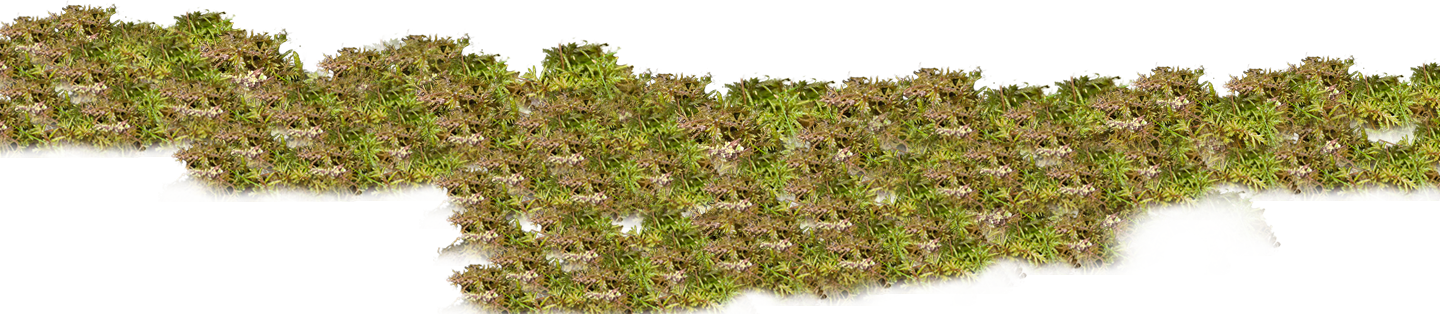
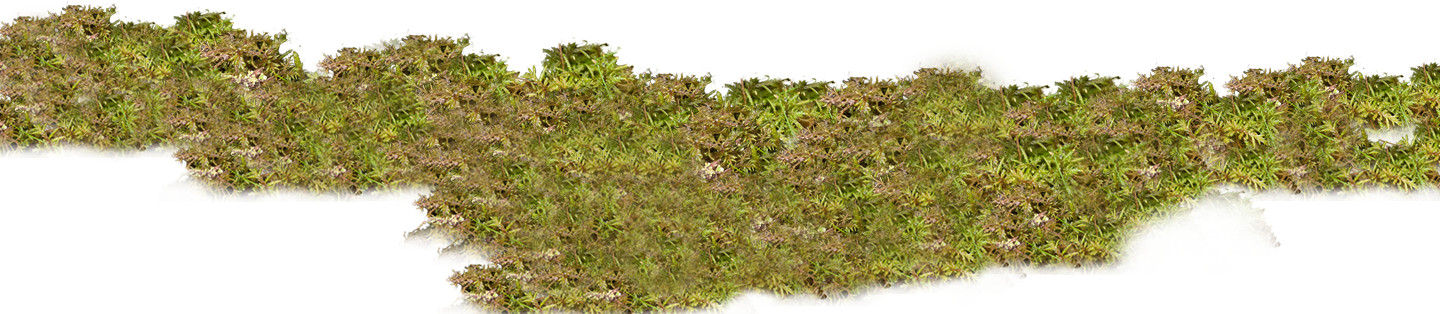
Update styles

Changed region(s): [[0.0, 0.0573, 0.8438, 0.9459], [0.875, 0.3439, 0.9375, 0.5732]]

diff --git a/src/assets/styles/App.scss b/src/assets/styles/App.scss
@@ -151,14 +151,17 @@ html {
   .layer_grass {
     width: 200%;
     left: -70%;
-    height: 20%;
+    height: 40%;
     margin: auto;
     right: 0;
-    bottom: 5%;
+    bottom: -13%;
+    .gatsby-image-wrapper {
+      height: 100%;
+    }
     @include medium {
-      left: -20%;
-      bottom: 15%;
-      width: 140%;
+      left: -10%;
+      bottom: -7%;
+      width: 120%;
     }
   }
   .layer6 {
@@ -184,6 +187,11 @@ html {
     top: -10%;
     .gatsby-image-wrapper {
       height: 100%;
+      img {
+        @include small-only {
+          object-position: 62% 50% !important;
+        }
+      }
     }
   }
 }
